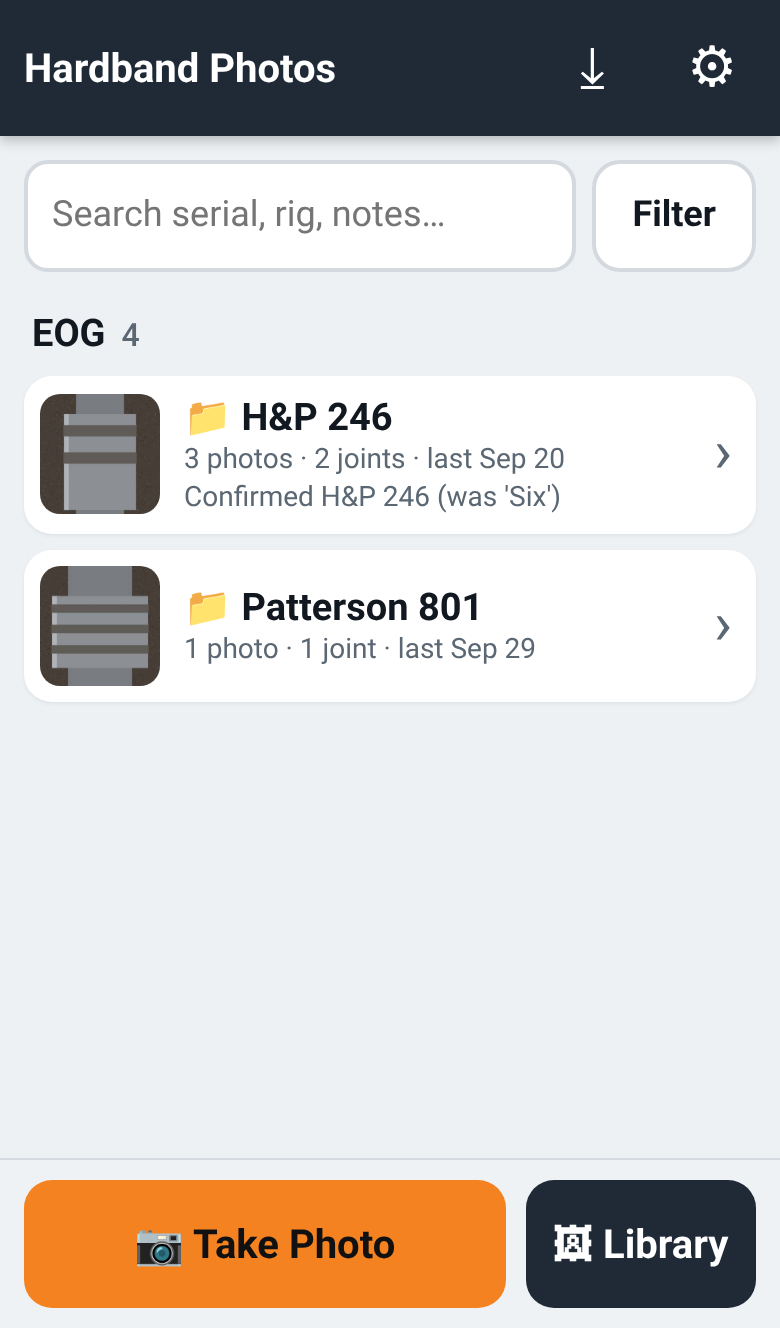
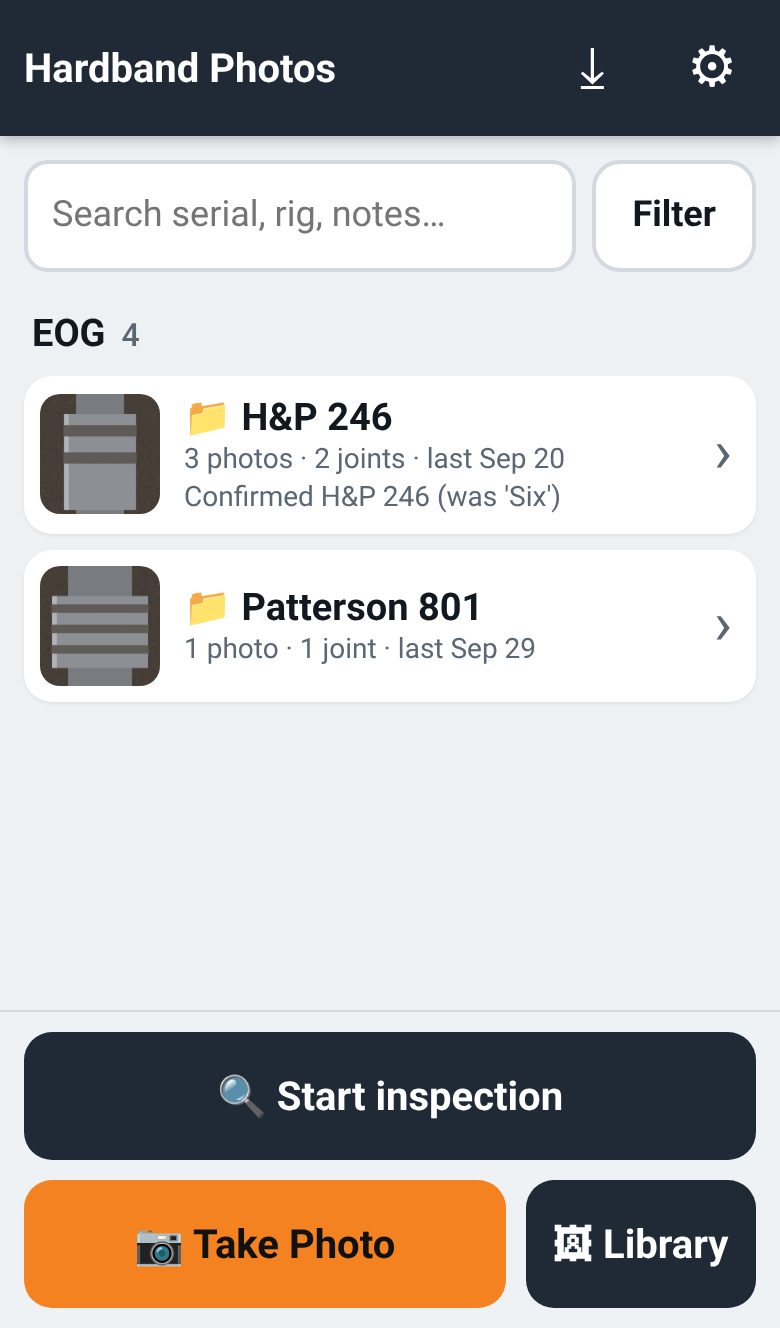
Start inspection: rig-only sheet that opens the camera in the same tap, Before form preset to the rig, blank-serial confirm, Next photo, Inspecting strip with Done; sw hbp-v5

Changed region(s): [[0.0308, 0.7718, 0.9846, 0.8953]]

diff --git a/app.js b/app.js
@@ -85,6 +85,7 @@ const S = {
   queue: [], qIndex: 0, savedCount: 0, batchValues: null, lastSaved: null, keepJoint: false,
   context: null, addContext: null, lastListHash: '#/', lastList: [], manageTab: 'rigs',
   viewUrls: [], scroll: {}, modalCancel: null,
+  inspection: null, addInspect: false, // inspection session: { rigName, rigId, customerId, count, ready }
 };
 const KINDS = {
   rigs: { store: 'rigs', field: 'name', label: 'Rig', plural: 'Rigs', ref: 'rigId', notes: true, prefix: 'r' },
@@ -213,7 +214,9 @@ async function processFile(file) {
 
 /* ================= UI plumbing ================= */
 const view = $('#view');
-function setChrome({ title, back = null, bottom = true }) {
+function setChrome({ title, back = null, bottom = true, insp = false }) {
+  $('#inspBtn').hidden = !insp;
+  document.body.classList.toggle('with-insp-btn', !!(bottom && insp));
   $('#title').textContent = title;
   const bb = $('#backBtn');
   bb.hidden = !back;
@@ -240,10 +243,10 @@ function closeModal(silent) {
   $('#modalRoot').innerHTML = '';
   if (cb && !silent) cb();
 }
-function confirmBox({ title, msg = '', ok = 'OK', danger = false }) {
+function confirmBox({ title, msg = '', ok = 'OK', cancel = 'Cancel', danger = false }) {
   return new Promise((resolve) => {
     const m = openModal(`<h3>${esc(title)}</h3>${msg ? `<p>${msg}</p>` : ''}
-      <div class="row form-actions"><button class="btn ghost" data-a="no">Cancel</button>
+      <div class="row form-actions"><button class="btn ghost" data-a="no" id="confirmNo">${esc(cancel)}</button>
       <button class="btn ${danger ? 'danger solid' : 'primary'}" data-a="yes" id="confirmYes">${esc(ok)}</button></div>`, { onCancel: () => resolve(false) });
     m.addEventListener('click', (e) => { const a = e.target.closest('[data-a]'); if (!a) return; closeModal(true); resolve(a.dataset.a === 'yes'); });
   });
@@ -387,6 +390,8 @@ function route() {
   const parts = location.hash.replace(/^#\/?/, '').split('/').map((x) => decodeURIComponent(x));
   const v = parts[0] || '';
   if (v !== 'saved') S.keepJoint = false;
+  if (v === '' && S.inspection) endInspection(); // leaving back to home finishes the inspection
+  drawInspBar(v);
   try {
     if (v === '') renderHome();
     else if (v === 'folder') renderFolder(parts[1], parts[2]);
@@ -439,7 +444,7 @@ const opts = (kind, sel, blank) => (blank ? `<option value="">${esc(blank)}</opt
 
 function renderHome() {
   S.lastListHash = '#/'; S.context = null;
-  setChrome({ title: 'Hardband Photos', bottom: true });
+  setChrome({ title: 'Hardband Photos', bottom: true, insp: true });
   const s = S.search, fc = filterCount();
   view.innerHTML = `
     <div class="searchbar">
@@ -644,6 +649,7 @@ function renderForm(mode, id) {
     if (S.addContext) Object.assign(vals, S.addContext);
     if (S.addKeep && S.lastSaved) Object.assign(vals, { customerId: S.lastSaved.customerId, rigId: S.lastSaved.rigId, pipeSpecId: S.lastSaved.pipeSpecId, serialNumber: S.lastSaved.serialNumber || '', end: S.lastSaved.end || '', stage: stageOf(S.lastSaved) });
     if (S.batchValues) Object.assign(vals, { ...S.batchValues, bandNumber: '', notes: '' });
+    if (S.addInspect) vals.stage = 'pre'; // inspection session: every new photo starts as Before hardband
     setChrome({ title: S.queue.length > 1 ? `Add photo ${S.qIndex + 1} of ${S.queue.length}` : 'Add photo', back: discardQueue, bottom: false });
   }
   for (const [k, kind] of [['customerId', 'customers'], ['rigId', 'rigs'], ['pipeSpecId', 'pipeSpecs']]) if (vals[k] && !S[kind].has(vals[k])) vals[k] = '';
@@ -750,9 +756,17 @@ function renderForm(mode, id) {
     customerId: $('#fCustomer').value.replace('__new', ''), rigId: $('#fRig').value.replace('__new', ''), pipeSpecId: $('#fSpec').value.replace('__new', ''),
     serialNumber: $('#fSerial').value.trim().toUpperCase(), end, bandNumber: band, notes: $('#fNotes').value.trim(), stage,
   });
+  // Inspection (Before) photos are found by serial later, so a blank serial gets one confirmation.
+  const serialOk = async (v) => {
+    if (mode !== 'add' || v.stage !== 'pre' || v.serialNumber) return true;
+    const go = await confirmBox({ title: 'Save without a serial number?', ok: 'Save anyway', cancel: 'Add serial' });
+    if (!go) setTimeout(() => { const f = $('#fSerial'); if (f) f.focus(); }, 30);
+    return go;
+  };
   $('#photoForm').onsubmit = async (e) => {
     e.preventDefault();
     const v = collect();
+    if (!(await serialOk(v))) return;
     $('#saveBtn').disabled = true;
     try {
       if (mode === 'edit') {
@@ -771,7 +785,9 @@ function renderForm(mode, id) {
   };
   const sa = $('#saveAllBtn');
   if (sa) sa.onclick = async () => {
-    const v = collect(); const b = busy('Saving…'); const n = S.queue.length - S.qIndex;
+    const v = collect();
+    if (!(await serialOk(v))) return;
+    const b = busy('Saving…'); const n = S.queue.length - S.qIndex;
     try { for (let k = 0; k < n; k++) { b.update(`Saving ${k + 1} of ${n}…`, (k + 1) / n); await saveQueued(v); S.qIndex++; } }
     catch (err) { b.done(); toast('Save failed: ' + err.message, 5000); return; }
     b.done(); finishQueue();
@@ -788,6 +804,7 @@ async function saveQueued(v) {
   markDirty('photos', p.id);
   S.lastSaved = p; S.batchValues = { customerId: v.customerId, rigId: v.rigId, pipeSpecId: v.pipeSpecId, serialNumber: v.serialNumber, end: v.end, stage: v.stage };
   S.savedCount++;
+  if (S.addInspect && S.inspection) S.inspection.count++;
   await setMeta('lastUsed', { customerId: v.customerId, rigId: v.rigId, pipeSpecId: v.pipeSpecId });
   if (S.meta.lastStage !== v.stage) await setMeta('lastStage', v.stage); // next photo defaults to the same stage
 }
@@ -824,7 +841,10 @@ function renderSaved() {
 async function handleFiles(fileList) {
   const files = Array.from(fileList || []).filter((f) => !f.type || f.type.startsWith('image/') || /\.(jpe?g|png|heic|heif|webp)$/i.test(f.name));
   if (!files.length) return;
-  const addCtx = S.context ? { ...S.context } : null;
+  const insp = S.inspection;
+  if (insp && insp.ready) { await insp.ready.catch(() => null); await new Promise((r) => setTimeout(r, 0)); } // let its folder view settle first
+  const inSession = !!(S.inspection && S.inspection.rigId);
+  const addCtx = inSession ? { rigId: S.inspection.rigId, customerId: S.inspection.customerId } : S.context ? { ...S.context } : null;
   const keep = S.keepJoint; S.keepJoint = false;
   const b = busy(files.length > 1 ? `Preparing 1 of ${files.length}…` : 'Preparing photo…');
   const q = []; let failed = 0;
@@ -835,8 +855,71 @@ async function handleFiles(fileList) {
   b.done();
   if (failed) toast(`${failed} file${failed === 1 ? '' : 's'} could not be read${q.length ? ' and were skipped' : ''}.`, 4000);
   if (!q.length) return;
-  S.queue = q; S.qIndex = 0; S.savedCount = 0; S.batchValues = null; S.addContext = addCtx; S.addKeep = keep;
+  S.queue = q; S.qIndex = 0; S.savedCount = 0; S.batchValues = null; S.addContext = addCtx; S.addKeep = keep; S.addInspect = inSession;
   if (location.hash === '#/add') route(); else location.hash = '#/add';
+}
+
+/* ================= inspection session (Start inspection) ================= */
+// One required field (rig). "Open camera" is a <label for="camInput">, so the camera opens inside the same tap
+// (iOS only opens a file/camera picker from a direct user tap). The rig is looked up / created in the background;
+// handleFiles waits for it before building the form.
+const normRig = (s) => String(s || '').trim().replace(/\s+/g, ' ').toLowerCase();
+function startInspectionSheet() {
+  const lu = S.meta.lastUsed || {};
+  const rigs = sortedItems('rigs');
+  const m = openModal(`<h3>Start inspection</h3>
+    <form id="inspForm" autocomplete="off">
+      <div class="field"><label for="inspRigName">Rig name</label>
+        <input id="inspRigName" type="text" list="inspRigList" placeholder="Type or pick a rig" autocapitalize="words" autocorrect="off" spellcheck="false" enterkeyhint="go">
+        <datalist id="inspRigList">${rigs.map((r) => `<option value="${esc(r.name)}">`).join('')}</datalist>
+        <div class="small insp-msg" id="inspMsg" role="alert"></div></div>
+      <div class="field"><label for="inspCust">Customer <span class="muted small">(optional)</span></label>
+        <select id="inspCust"><option value="">No customer</option>${opts('customers', S.customers.has(lu.customerId) ? lu.customerId : '')}</select></div>
+      <div class="stack form-actions">
+        <label for="camInput" class="btn primary big block" id="inspCamBtn">📷 Open camera</label>
+        <button type="button" class="btn ghost block" id="inspCancel">Cancel</button>
+      </div>
+    </form>`);
+  const inp = $('#inspRigName', m);
+  setTimeout(() => inp.focus(), 50);
+  const begin = (e) => {
+    const name = inp.value.trim().replace(/\s+/g, ' ');
+    if (!name) { if (e) e.preventDefault(); $('#inspMsg', m).textContent = 'Type the rig name first.'; inp.focus(); return false; }
+    beginInspection(name, $('#inspCust', m).value);
+    setTimeout(() => closeModal(true), 0); // after the tap has opened the camera
+    return true;
+  };
+  $('#inspCamBtn', m).addEventListener('click', begin);
+  $('#inspCancel', m).onclick = () => closeModal(true);
+  inp.addEventListener('input', () => { $('#inspMsg', m).textContent = ''; });
+  $('#inspForm', m).onsubmit = (e) => { e.preventDefault(); if (begin(null)) $('#camInput').click(); }; // Enter/Go key
+}
+function beginInspection(name, customerId) {
+  const sess = { rigName: name, rigId: null, customerId: customerId || '', count: 0 };
+  S.inspection = sess;
+  sess.ready = (async () => {
+    const hit = sortedItems('rigs').find((r) => normRig(r.name) === normRig(name)); // same rig, any capitalisation
+    const rig = hit || await createLookup('rigs', { name });
+    sess.rigId = rig.id; sess.rigName = rig.name;
+    if (S.inspection === sess) { location.hash = `#/folder/${encodeURIComponent(sess.customerId)}/${encodeURIComponent(rig.id)}`; drawInspBar(); }
+    return rig;
+  })();
+  drawInspBar();
+}
+function endInspection() { S.inspection = null; S.addInspect = false; drawInspBar(); }
+function finishInspection() {
+  const sess = S.inspection; if (!sess) return;
+  endInspection();
+  toast(`Inspection finished${sess.count ? ` — ${sess.count} photo${sess.count === 1 ? '' : 's'}` : ''}`);
+  if (sess.rigId) location.hash = `#/folder/${encodeURIComponent(sess.customerId)}/${encodeURIComponent(sess.rigId)}`; else route();
+}
+function drawInspBar(v) {
+  const bar = $('#inspBar'), sess = S.inspection;
+  if (v === undefined) v = location.hash.replace(/^#\/?/, '').split('/')[0];
+  bar.hidden = !sess;
+  if (!sess) return;
+  $('#inspRig').textContent = (sess.rigId && labelOf('rigs', sess.rigId)) || sess.rigName;
+  $('#inspDone').hidden = v === 'add'; // the photo form has its own Save / Discard
 }
 
 /* ================= manage ================= */
@@ -1042,6 +1125,8 @@ async function init() {
   $('#syncBadge').onclick = () => { location.hash = '#/backup'; };
   $('#manageBtn').onclick = () => { location.hash = '#/manage/' + S.manageTab; };
   $('#camBtn').addEventListener('click', () => { S.keepJoint = false; });
+  $('#inspBtn').onclick = startInspectionSheet;
+  $('#inspDone').onclick = () => finishInspection();
   $('#libBtn').addEventListener('click', () => { S.keepJoint = false; });
   for (const id of ['#camInput', '#libInput']) {
     const inp = $(id);

diff --git a/styles.css b/styles.css
@@ -65,6 +65,14 @@ body {
   backdrop-filter: blur(6px); -webkit-backdrop-filter: blur(6px);
 }
 #bottombar #camBtn { flex: 2.2; }
+#bottombar { flex-wrap: wrap; }
+#bottombar .insp-btn { flex: 1 0 100%; order: -1; }
+body.with-insp-btn { padding-bottom: calc(170px + var(--safe-b)); }
+/* active inspection session strip (under the top bar) */
+.insp-bar { display: flex; align-items: center; gap: 10px; padding: 6px 12px; background: #dfe7ee; border-bottom: 1px solid var(--line); font-size: 16px; color: var(--steel); }
+.insp-bar .insp-text { flex: 1; min-width: 0; white-space: nowrap; overflow: hidden; text-overflow: ellipsis; }
+.insp-bar .insp-done { min-height: 44px; padding: 0 16px; flex: none; }
+.insp-msg { color: var(--danger); min-height: 1.2em; margin-top: 4px; }
 #bottombar #libBtn { flex: 1; white-space: nowrap; padding: 0 10px; }
 #fSerial { text-transform: uppercase; font-weight: 700; letter-spacing: .5px; }
 #fSerial::placeholder { text-transform: none; font-weight: 400; letter-spacing: 0; }

diff --git a/index.html b/index.html
@@ -24,10 +24,15 @@
     <button id="backupBtn" class="icon-btn" aria-label="Backup / Export" title="Backup">⤓</button>
     <button id="manageBtn" class="icon-btn" aria-label="Manage rigs, customers, specs" title="Manage">⚙</button>
   </header>
+  <div id="inspBar" class="insp-bar" role="status" hidden>
+    <span class="insp-text">🔍 Inspecting: <b id="inspRig"></b></span>
+    <button id="inspDone" class="btn ghost insp-done" type="button">Done</button>
+  </div>
 
   <main id="view" aria-live="polite"></main>
 
   <nav id="bottombar">
+    <button id="inspBtn" class="btn secondary big insp-btn" type="button" hidden>🔍 Start inspection</button>
     <label for="camInput" id="camBtn" class="btn primary big">📷 Take Photo</label>
     <label for="libInput" id="libBtn" class="btn secondary big" aria-label="Pick from photo library">🖼 Library</label>
   </nav>

diff --git a/sw.js b/sw.js
@@ -1,6 +1,6 @@
 /* Hardband Photos service worker: caches the app shell so the app opens offline.
    Bump VERSION whenever app files change so phones pick up the new copy. */
-const VERSION = 'hbp-v4';
+const VERSION = 'hbp-v5';
 const SHELL = [
   './',
   './index.html',

diff --git a/README.md b/README.md
@@ -23,6 +23,12 @@ Photos saved before this existed have no stage and count as `post`.
   porosity, Cracks, Needs repair, Eccentric band. Before hardband is a short inspection screen: rig + "Before hardband"
   header, serial number (focused), chips No hardband needed / Reapply / Repair, and everything else under
   *More details*. Switching stage never clears typed notes (chips only add text to the notes).
+- **🔍 Start inspection** (home screen): a sheet whose only required field is the rig name (type it or pick a
+  suggestion; a case-insensitive match reuses the rig, otherwise it is created; customer optional, defaults to the
+  last-used one). **📷 Open camera** is a `<label for="camInput">` (`capture="environment"`), so the camera opens in
+  the same tap. Each photo lands in the Before form for that rig; a blank serial asks "Save without a serial number?"
+  (Add serial / Save anyway); **📷 Next photo** reopens the camera. An "Inspecting: [rig]" strip with **Done** shows
+  until Done is tapped or the user goes back to the home screen.
 - Tiles, the photo detail and the saved screen show a BEFORE / AFTER badge. Search matches "before", "pre",
   "inspection" / "after", "post", and the Filter sheet has a Stage filter.
 - Export: `stage` column in metadata.csv, `stage` in metadata.json, and `_Before_` / `_After_` in JPEG file names.
